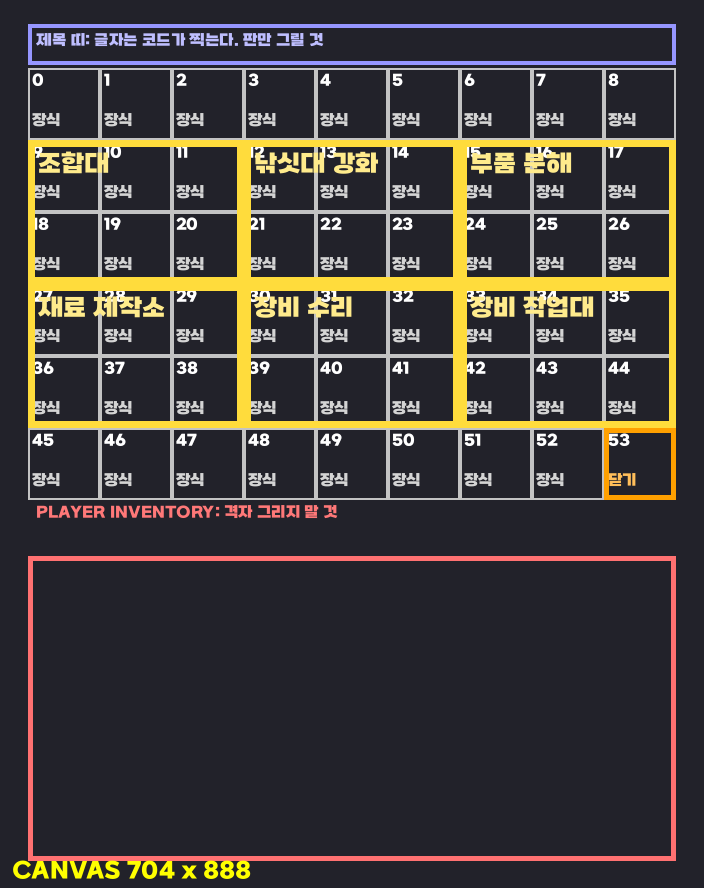
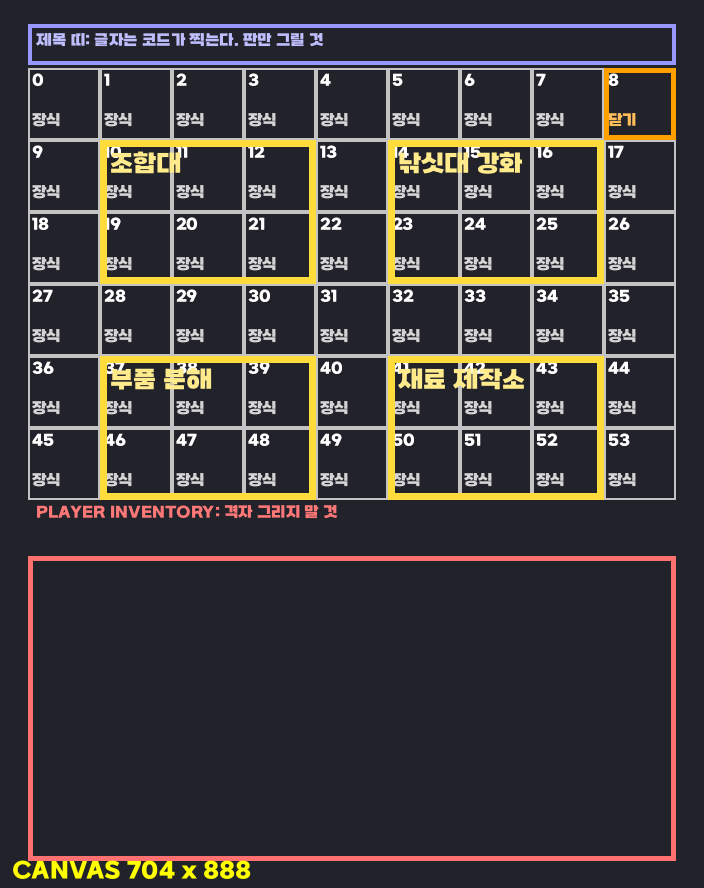
대장간 허브를 2x2로 — 버튼 늘려 채우지 않는다
작업대가 넷뿐인데 3열x2행 6칸으로 깔면 두 칸을 억지로 채워야 한다(장비 수리·
장비 작업대를 끌어왔었다). 2x2로 두고 사이와 바깥에 한 칸씩 여백을 준다 —
남은 30칸은 대장간 내부 그림 몫이다. 발주서에도 "비어 있는 곳이 주인공"으로 적었다.

  가로 여백1 + 타일3 + 골1 + 타일3 + 여백1 = 9
  세로 여백행(0) + 타일2행 + 골행(3) + 타일2행
  타일 슬롯 10·11·12/19·20·21 · 14·15·16/23·24·25
            37·38·39/46·47·48 · 41·42·43/50·51·52
  닫기는 8번(비어 있는 0행 오른쪽 끝) — 53은 아래 타일에 붙어 답답했다

Changed region(s): [[0.0312, 0.0608, 0.9688, 0.5777]]

diff --git a/gui-forge/make_page_layouts.py b/gui-forge/make_page_layouts.py
@@ -34,14 +34,17 @@ ROLE_COLOR = {
 # 이름: (행 수, {슬롯: (역할, 라벨)}, 기본역할)
 # TILES[이름] = [(라벨, 시작열, 시작행, 열수, 행수)] — 여러 칸을 한 덩어리로 그리는 큰 버튼.
 # 대장간 허브가 이 방식이다(메뉴/내 정보와 같은 타일형).
+# 대장간은 작업대가 넷뿐이다. 3열x2행 6칸으로 깔면 두 칸을 억지로 채워야 해서
+# 2x2로 두고 **사이와 바깥에 한 칸씩 여백**을 준다 — 남은 자리는 대장간 그림 몫이다.
+#   가로 1 + 3 + 1 + 3 + 1 = 9  ·  세로 여백행(0) + 2 + 여백행(3) + 2
 TILES = {
-    "smithy": [("조합대", 0, 1, 3, 2), ("낚싯대 강화", 3, 1, 3, 2), ("부품 분해", 6, 1, 3, 2),
-               ("재료 제작소", 0, 3, 3, 2), ("장비 수리", 3, 3, 3, 2), ("장비 작업대", 6, 3, 3, 2)],
+    "smithy": [("조합대", 1, 1, 3, 2), ("낚싯대 강화", 5, 1, 3, 2),
+               ("부품 분해", 1, 4, 3, 2), ("재료 제작소", 5, 4, 3, 2)],
 }
 
 PAGES = {
     # 대장간 허브 — 27칸이라 가운데 네 칸만 쓰던 것을 54칸 타일형으로 넓힌다.
-    "smithy": (6, {53: ("홈", "닫기")}, "장식"),   # 타일은 TILES 가 그린다
+    "smithy": (6, {8: ("홈", "닫기")}, "장식"),   # 타일은 TILES 가 그린다
     # 조합대 — 왼쪽 목록 5x5 · 오른쪽 3x3 그리드 · 43 미리보기 · 52 제작 버튼
     "crafting": (6, {
         0: ("홈", "안내"), **{1 + i: ("홈", "탭") for i in range(6)}, 8: ("홈", "닫기"),

diff --git a/gui-forge/codex-brief-smithy.md b/gui-forge/codex-brief-smithy.md
@@ -43,12 +43,18 @@
 같은 재질(그을린 돌·달군 쇠·주황 불빛)을 공유하되 **방마다 도구가 다르다.**
 
 ### ① 대장간 허브 — 「작업대를 고른다」
-NPC에게 말 걸면 처음 나오는 화면. **큰 타일 6개**로 꽉 채웠다.
-- 대장간 **내부를 넓게** 보여줄 자리다 — 위쪽(0행)과 아래쪽(5행)이 통째로 비어 있으니
-  **모루·풀무·화덕·걸린 연장** 같은 걸 크게 그려 넣어라. 이 화면이 대장간의 얼굴이다.
-- 타일 6개는 **작업대 앞의 표지판/명판**처럼. 안은 비워 둔다(아이콘이 올라간다).
+NPC에게 말 걸면 처음 나오는 화면. **작업대가 넷뿐이라 2×2로 두고, 사이와 바깥에
+한 칸씩 여백**을 뒀다. 버튼을 늘려 채우는 대신 **남은 자리를 그림으로 채운다.**
 
-타일 내용(참고용 — 그림은 굽지 말 것): 조합대 · 낚싯대 강화 · 부품 분해 · 재료 제작소 · 장비 수리 · 장비 작업대
+- **비어 있는 곳이 이 화면의 주인공이다.** 타일 사이 세로 골, 좌우 여백,
+  위 한 줄, 타일 사이 가로 골 — 전부 이어진 **대장간 내부**로 보이게 그려라.
+  모루·풀무·화덕·물통·걸린 집게와 망치, 벽에 세워둔 쇠막대 같은 것들.
+- 타일 4개는 그 공간에 **박아 넣은 놋쇠 명판** 같은 느낌. 안은 비워 둔다
+  (아이콘이 올라간다). 명판이 벽에서 살짝 떠 보이면 더 좋다.
+- 오른쪽 위 홈 하나는 닫기 버튼 자리다.
+
+타일 내용(참고용 — 그림·글자는 굽지 말 것):
+조합대 · 낚싯대 강화 · 부품 분해 · 재료 제작소
 
 ### ② 조합대 — 「도면과 작업판」
 왼쪽에 **레시피 목록(5×5)**, 오른쪽에 **3×3 제작 그리드**, 그 아래 미리보기와 제작 버튼.
